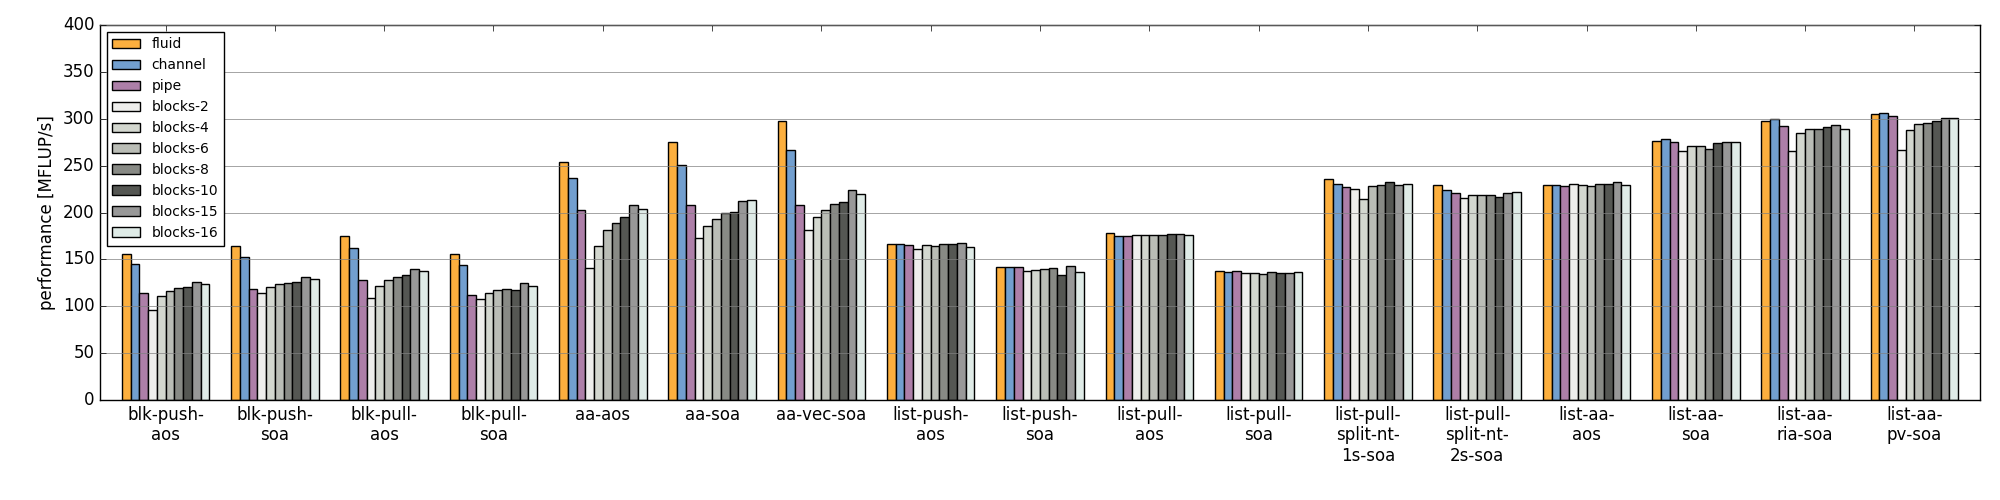
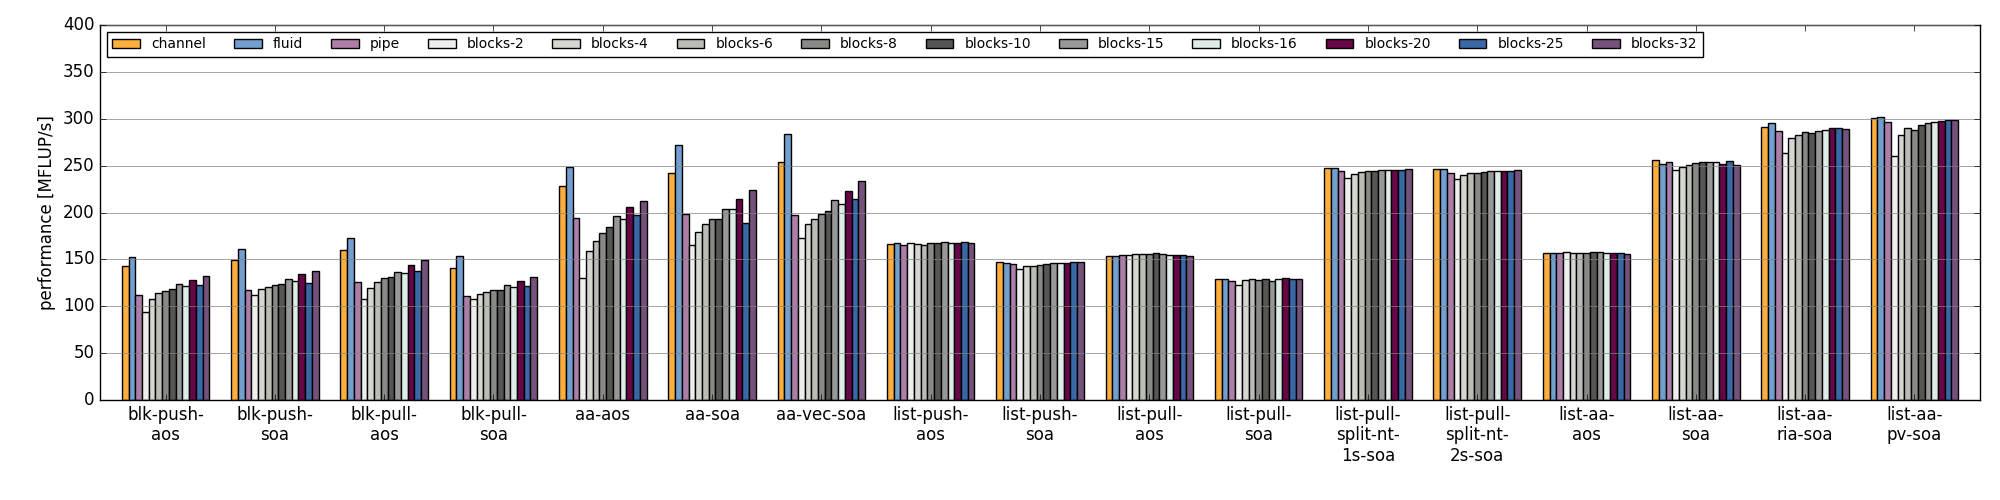
squased commits from internal repository
- doc: skylakesp2 results now with AVX512 intrinsics

- add AVX512 support for single precision intrinsics without
  gather/scatter

  The AVX512 intrinsics are divided into "pure" AVX512
  (load/store/compute) and AVX512-GATHER which include gather/scatter.

  This enables us to support at least AVX512 single precision intrinsics
  for all kernels which do not require gather/scatter support.

- fix test.sh: reenabled dp tests

- fix pull-split-nt: adjusted tmp array size to different vector
  lenghts

Changed region(s): [[0.031, 0.06, 0.992, 0.81]]

diff --git a/doc/main.html b/doc/main.html
@@ -592,7 +592,7 @@ make clean-all
 <tr><td>OPENMP</td>
 <td>on, off</td>
 <td>on</td>
-<td>OpenMP, i.,e.. threading support.</td>
+<td>OpenMP, i.e. threading support.</td>
 </tr>
 <tr><td>PRECISION</td>
 <td>dp, sp</td>
@@ -637,6 +637,22 @@ make clean-all
 </tr>
 </thead>
 <tbody valign="top">
+<tr><td>ADJ_LIST_MEM_TYPE</td>
+<td>HBM</td>
+<td><ul class="first last simple">
+<li></li>
+</ul>
+</td>
+<td>Determines memory location of adjacency list array, DRAM or HBM.</td>
+</tr>
+<tr><td>PDF_MEM_TYPE</td>
+<td>HBM</td>
+<td><ul class="first last simple">
+<li></li>
+</ul>
+</td>
+<td>Determines memory location of PDF array, DRAM or HBM.</td>
+</tr>
 <tr><td>SOFTWARE_PREFETCH_LOOKAHEAD_L1</td>
 <td>int &gt;= 0</td>
 <td>0</td>
@@ -1153,7 +1169,6 @@ which mimics the kernels memory access pattern and the kernel's loop balance
 </li>
 </ul>
 <p><strong>Skylake, Intel Xeon Gold 6148</strong></p>
-<p>NOTE: currently we only use AVX2 intrinsics.</p>
 <ul class="simple">
 <li>Skylake server architecture, AVX2, AVX512, 2 FMA units</li>
 <li>20 cores, 2.4 GHz</li>
@@ -1225,11 +1240,11 @@ which mimics the kernels memory access pattern and the kernel's loop balance
 </tr>
 <tr><td><img alt="perf_meggie_sp" src="images/benchmark-meggie-sp.png" style="width: 1000.0px; height: 250.0px;" /></td>
 </tr>
-<tr><td>Skylake, Intel Xeon Gold 6148, Double Precision, <strong>NOTE: currently we only use AVX2 intrinsics.</strong></td>
+<tr><td>Skylake, Intel Xeon Gold 6148, Double Precision</td>
 </tr>
 <tr><td><img alt="perf_skylakesp2_dp" src="images/benchmark-skylakesp2-dp.png" style="width: 1000.0px; height: 250.0px;" /></td>
 </tr>
-<tr><td>Skylake, Intel Xeon Gold 6148, Single Precision, <strong>NOTE: currently we only use AVX2 intrinsics.</strong></td>
+<tr><td>Skylake, Intel Xeon Gold 6148, Single Precision</td>
 </tr>
 <tr><td><img alt="perf_skylakesp2_sp" src="images/benchmark-skylakesp2-sp.png" style="width: 1000.0px; height: 250.0px;" /></td>
 </tr>
@@ -1280,7 +1295,7 @@ Roofline: an insightful visual performance model for multicore architectures.
 Commun. ACM, 52(4):65-76, Apr 2009. doi:10.1145/1498765.1498785</td></tr>
 </tbody>
 </table>
-<p>Document was generated at 2018-05-10 14:10.</p>
+<p>Document was generated at 2018-05-22 10:11.</p>
 </div>
 </div>
 </body>

diff --git a/src/Vector.h b/src/Vector.h
@@ -135,7 +135,40 @@
 #elif defined(PRECISION_SP)
 
 	#ifdef VECTOR_AVX512
-		#error Single precision intrinsic kernels for AVX512 are currently not implemented.
+
+		#include <immintrin.h>
+		// Vector size in double-precision floatin-point numbers.
+		#define VSIZE 	16
+
+		#define VPDFT				__m512
+
+		#define VSET(scalar)		_mm512_set1_ps(scalar)
+		// #define VSETI32(scalar)     _mm256_set1_epi32(scalar)
+
+		#define VLD(expr)			_mm512_load_ps(expr)
+		#define VLDU(expr)			_mm512_loadu_ps(expr)
+		#define VLIU(expr)			_mm256_loadu_si256((__m256i const *)expr)
+		// #define VLI64(expr)			_mm512_load_epi64(expr)
+
+		#define VST(dst, src)		_mm512_store_ps(dst, src)
+		#define VSTU(dst, src)		_mm512_storeu_ps(dst, src)
+		#define VSTNT(dst, src)		_mm512_stream_ps(dst, src)
+
+		// #define VG32(offsets, base, scale)	_mm512_i32gather_pd(offsets, base, scale)
+		// #define VG64(offsets, base, scale)	_mm512_i64gather_pd(offsets, base, scale)
+
+		// #define VPG32(offsets, base, scale, hint) _mm512_prefetch_i32gather_pd(offsets, base, scale, hint)
+
+		// #define VS32(dst_base, dst_offsets, src, scale)	_mm512_i32scatter_pd(dst_base, dst_offsets, src, scale)
+		// #define VS64(dst_base, dst_offsets, src, scale)	_mm512_i64scatter_pd(dst_base, dst_offsets, src, scale)
+
+		// #define VPS32(dst_base, dst_offsets, scale, hint) _mm512_prefetch_i32scatter_pd(dst_base, dst_offsets, scale, hint)
+
+		#define VMUL(a, b)			_mm512_mul_ps(a, b)
+		#define VADD(a, b)			_mm512_add_ps(a, b)
+		// #define VADDI32(a,b)		_mm256_add_epi32(a,b)
+		// #define VMULI32(a,b)		_mm256_mul_epi32(a,b)
+		#define VSUB(a, b)			_mm512_sub_ps(a, b)
 	#endif
 
 	#ifdef VECTOR_AVX

diff --git a/src/BenchKernelD3Q19ListPullSplitNtCommon.c b/src/BenchKernelD3Q19ListPullSplitNtCommon.c
@@ -195,7 +195,7 @@ static void ParseParameters(Parameters * params, int * blk, int * nTmpArray, Pad
 	Assert(blk != NULL);
 
 	blk[0] = 0; blk[1] = 0; blk[2] = 0;
-	*nTmpArray = 152;
+	*nTmpArray = 152 - (152 % VSIZE);
 	*padInfo = NULL;
 
 	#define ARG_IS(param)                   (!strcmp(params->KernelArgs[i], param))
@@ -491,7 +491,9 @@ static void FNAME(Init)(LatticeDesc * ld, KernelData ** kernelData, Parameters *
 	}
 
 	// We padd each stream of a PDF array for a complete cache line.
-	nCells = nCells + (8 - nCells % 8);
+	int nElementsPerCl = 64 / sizeof(PdfT);
+
+	nCells = nCells + (nElementsPerCl - nCells % nElementsPerCl);
 
 	Assert(nCells % VSIZE == 0);
 

diff --git a/src/KernelFunctions.h b/src/KernelFunctions.h
@@ -39,7 +39,7 @@
 #include "BenchKernelD3Q19ListAa.h"
 #include "BenchKernelD3Q19ListAaRia.h"
 #include "BenchKernelD3Q19ListAaPv.h"
-#ifdef VECTOR_AVX512
+#ifdef VECTOR_AVX512_GATHER
 #include "BenchKernelD3Q19ListAaPvGatherAoSoA.h"
 #include "BenchKernelD3Q19ListAaPvGather.h"
 #include "BenchKernelD3Q19ListAaPvGatherHybrid.h"
@@ -75,7 +75,7 @@ KernelFunctions g_kernels[] =
 		.Init   = D3Q19ListAaInit_PushAoS,
 		.Deinit = D3Q19ListAaDeinit_PushAoS
 	},
-#ifdef VECTOR_AVX512
+#ifdef VECTOR_AVX512_GATHER
 	{
 		.Name   = "list-aa-pv-gather-aosoa",
 		.Init   = D3Q19ListAaPvGatherAoSoAInit_PushAoSoA,

diff --git a/src/Main.c b/src/Main.c
@@ -455,6 +455,10 @@ int main(int argc, char * argv[])
 	printf("# - intrinsics:        UNKNOWN\n");
 #endif
 
+#if defined(VECTOR_AVX512_GATHER)
+	printf("# - intrinsics:        AVX512 gather (VECTOR_AVX512_GATHER defined)\n");
+#endif
+
 	printf("# - defines:           ");
 	for (int j = 0; j < N_ELEMS(defines); ++j) {
 		printf("%s ", defines[j]);

diff --git a/doc/main.rst b/doc/main.rst
@@ -550,8 +550,6 @@ Machine Specifications
 
 **Skylake, Intel Xeon Gold 6148**
 
-NOTE: currently we only use AVX2 intrinsics.
-
 - Skylake server architecture, AVX2, AVX512, 2 FMA units
 - 20 cores, 2.4 GHz
 - SMT enabled
@@ -628,9 +626,9 @@ Single Socket Results
   * - |perf_meggie_dp|
   * - Broadwell, Intel Xeon E5-2630 v4, Single Precision
   * - |perf_meggie_sp|
-  * - Skylake, Intel Xeon Gold 6148, Double Precision, **NOTE: currently we only use AVX2 intrinsics.**
+  * - Skylake, Intel Xeon Gold 6148, Double Precision
   * - |perf_skylakesp2_dp|
-  * - Skylake, Intel Xeon Gold 6148, Single Precision, **NOTE: currently we only use AVX2 intrinsics.**
+  * - Skylake, Intel Xeon Gold 6148, Single Precision
   * - |perf_skylakesp2_sp|
   * - Zen, AMD Ryzen 7 1700X, Double Precision
   * - |perf_summitridge1_dp|
